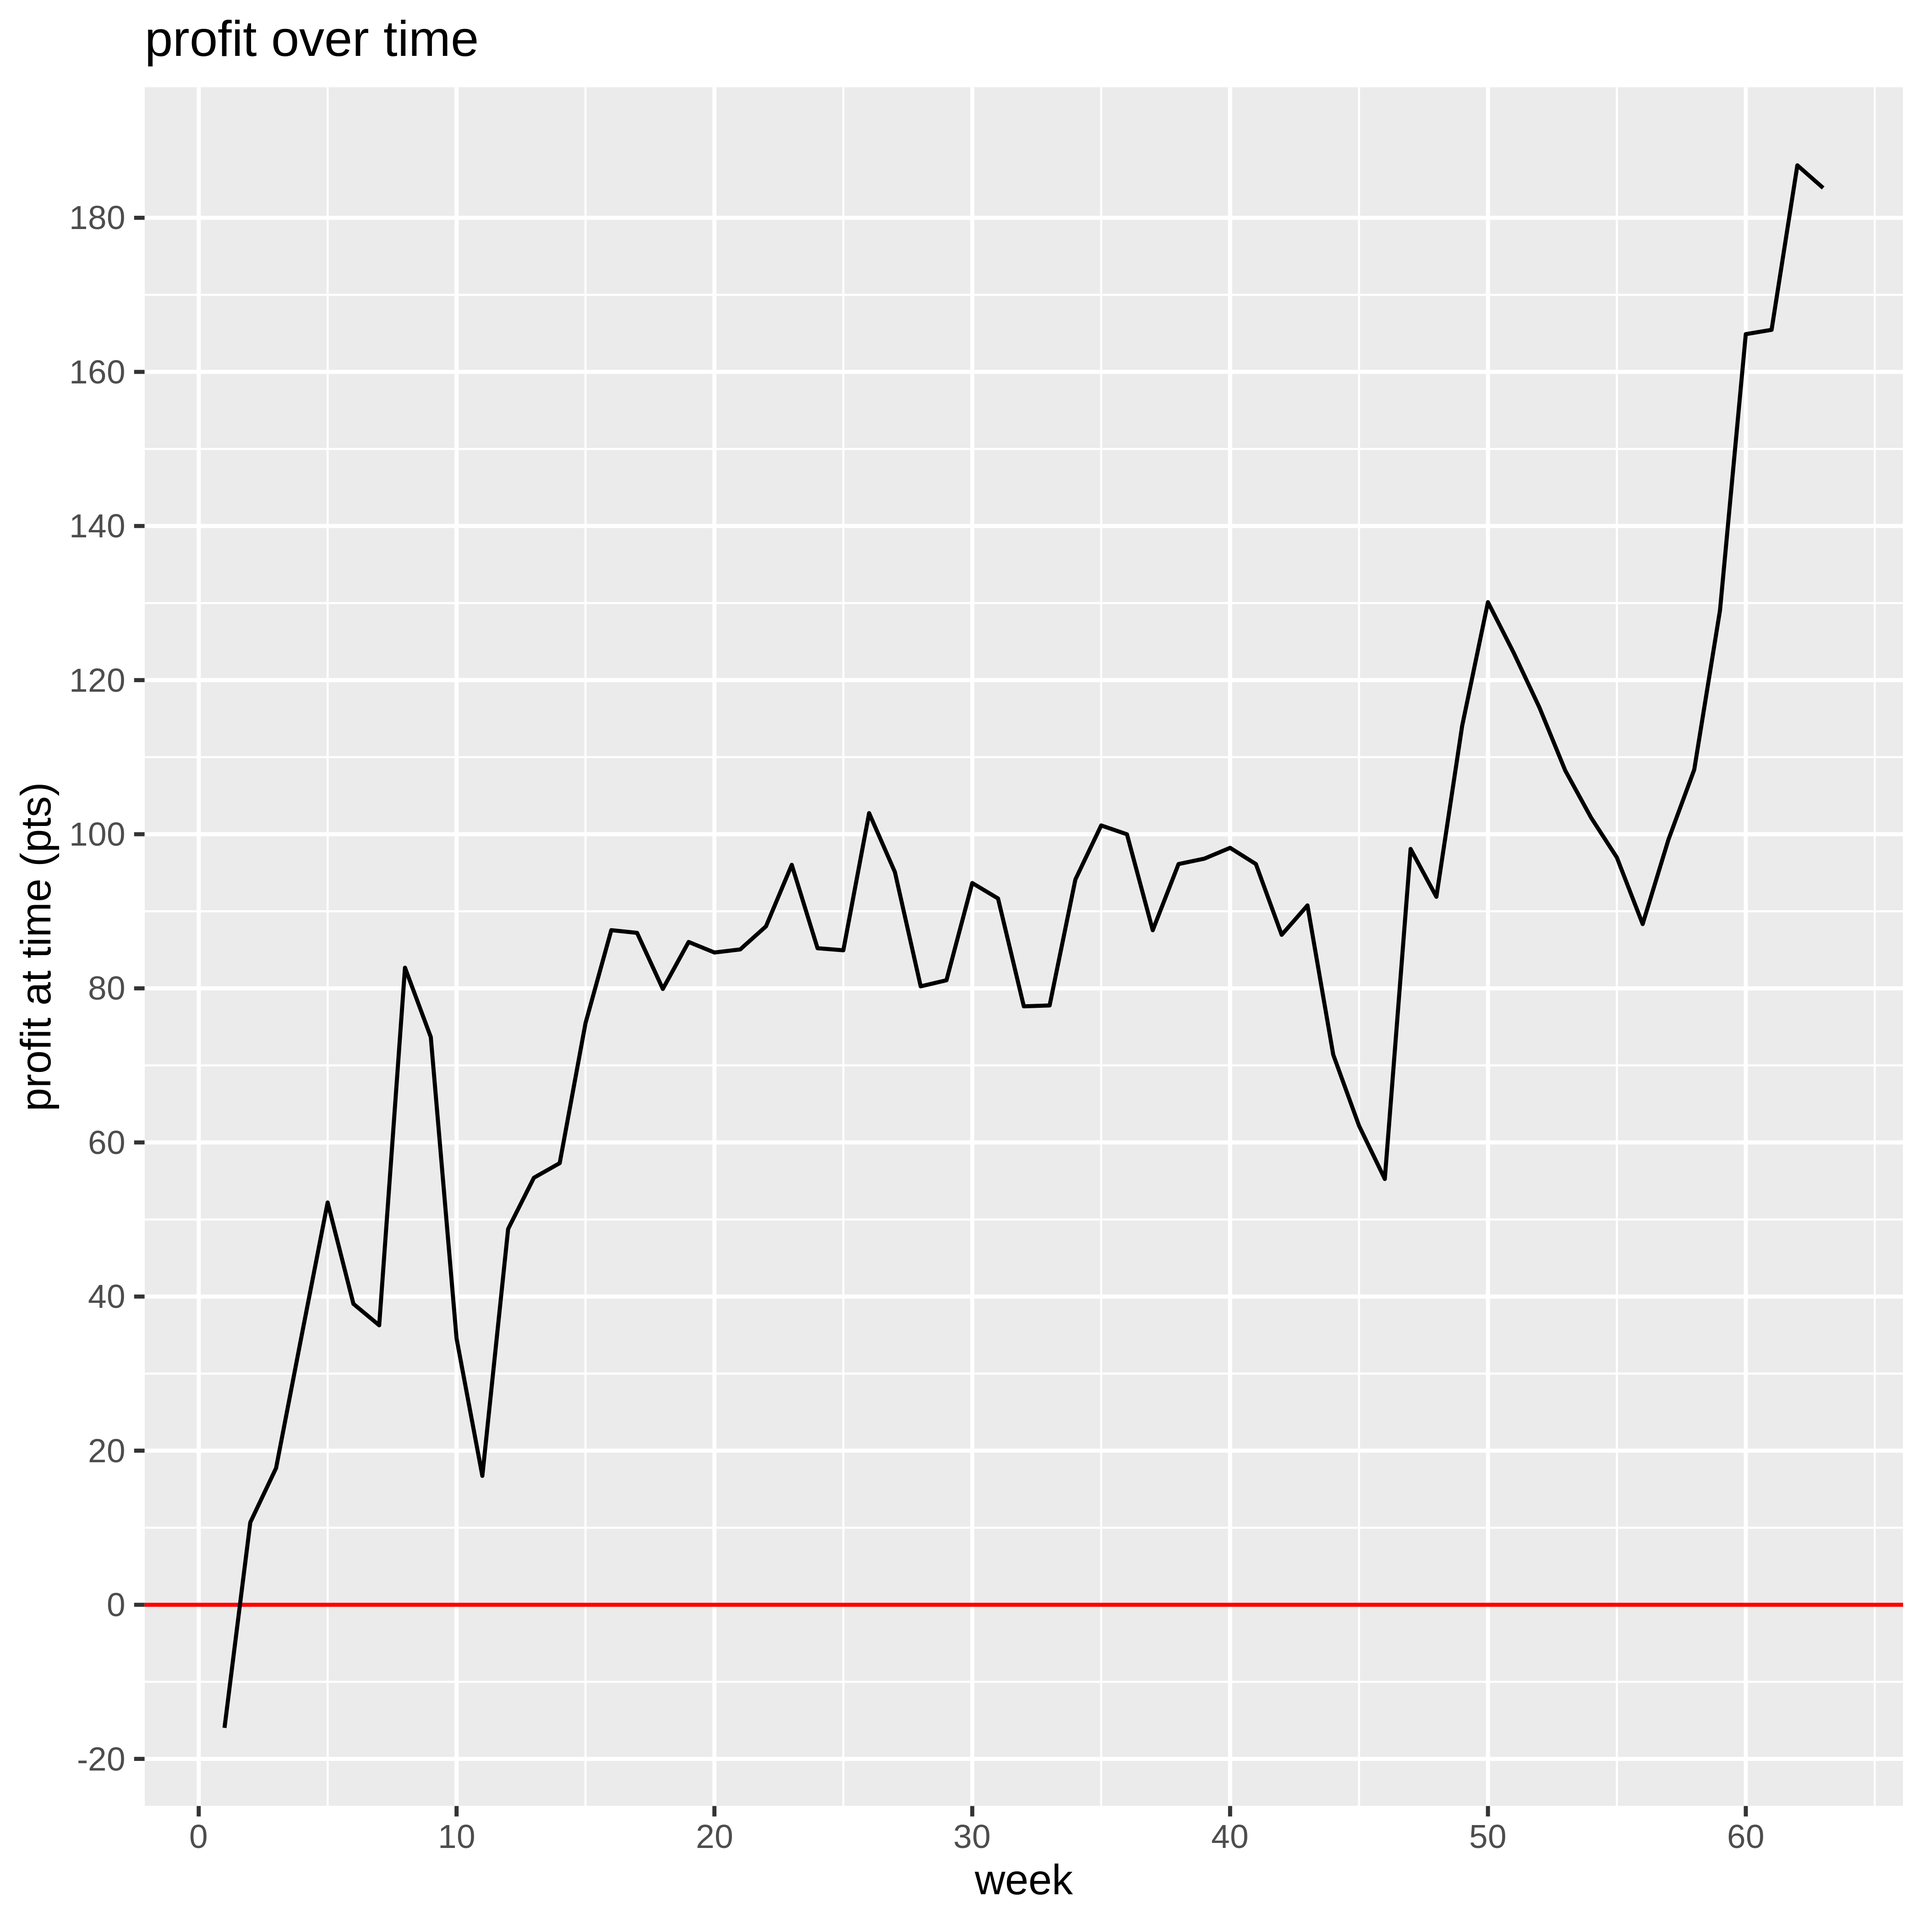
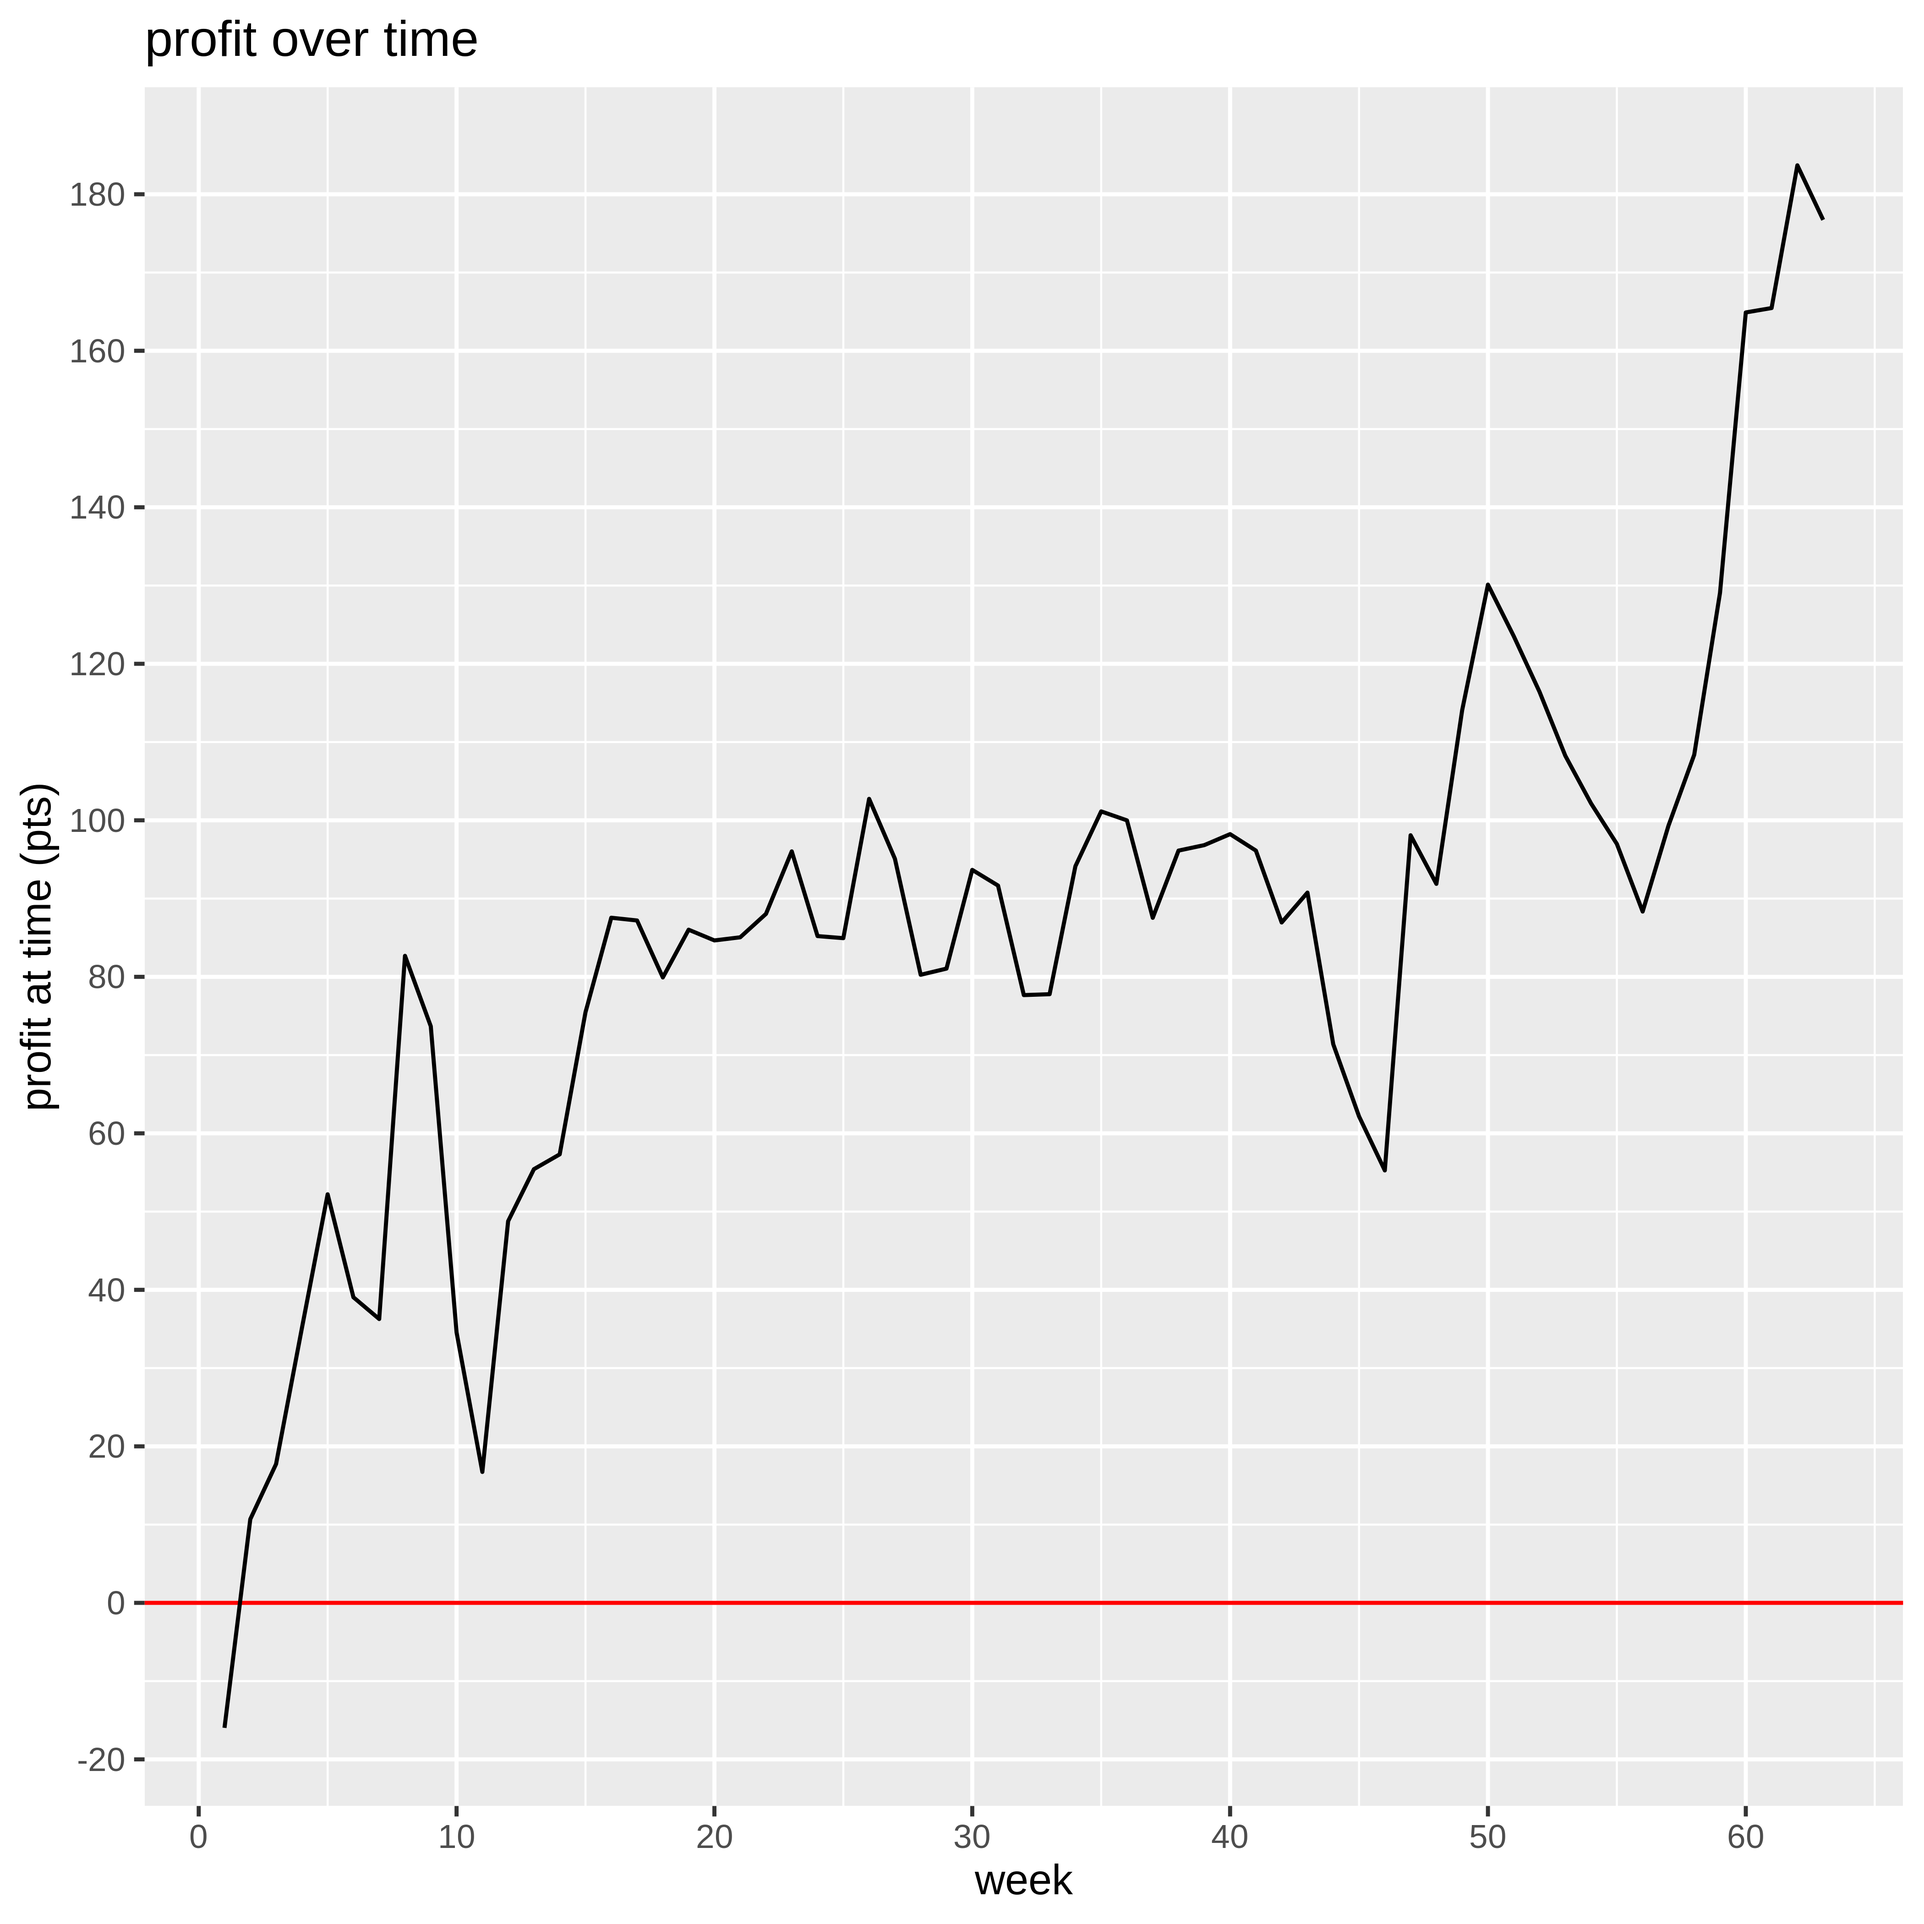
Daily auto build of report.md. Travis build: 1159.

diff --git a/report.md b/report.md
@@ -1,6 +1,6 @@
 ---
 title: "report"
-date: "2019-06-29 17:45:03"
+date: "2019-06-30 17:42:56"
 output: github_document
 ---
 
@@ -17,9 +17,9 @@ output: github_document
 
 
 
-We put in €9000 and we've made a profit of €9,056 on the bets. However, we've paid three subscriptions of £600 which amounts to €2,008 so our net profit is €7,048. That's a return on capital of 78.31%. This gives us a current bank of €16048.
+We put in €9000 and we've made a profit of €8,633 on the bets. However, we've paid three subscriptions of £600 which amounts to €2,010 so our net profit is €6,623. That's a return on capital of 73.59%. This gives us a current bank of €15623.
 
-We have wagered a total of €102,285 and made a betting profit of €9,056, which gives us a betting ROI of 8.85%.
+We have wagered a total of €102,745 and made a betting profit of €8,633, which gives us a betting ROI of 8.4%.
 
 
 # Have any bookies been riddled?
@@ -31,22 +31,22 @@ We have wagered a total of €102,285 and made a betting profit of €9,056, whi
 |Matchbook    |+55   |0     |+6   |+61   |
 |Betfred      |+20   |0     |+31  |+51   |
 |Paddy Power  |+44   |0     |+1   |+45   |
-|Bet365       |0     |0     |+36  |+36   |
+|Bet365       |0     |-2    |+36  |+36   |
 |SkyBet       |+12   |0     |-1   |+11   |
 |SportingBet  |0     |0     |+10  |+10   |
 |10Bet        |+14   |0     |-6   |+8    |
 |NA           |0     |0     |+7   |+7    |
 |SpreadEx     |+6    |0     |0    |+6    |
-|Coral        |+5    |0     |0    |+5    |
+|Coral        |+5    |-1    |0    |+5    |
 |Marathon     |0     |0     |+2   |+2    |
-|William Hill |+1    |0     |0    |+1    |
-|Betway       |0     |0     |0    |0     |
-|HC Matchbook |0     |0     |-1   |-1    |
+|Betway       |0     |-1    |0    |0     |
 |Betstars     |-1    |0     |0    |-1    |
 |Uniber       |0     |0     |-1   |-1    |
+|William Hill |-1    |0     |0    |-1    |
 |SunBets      |-4    |0     |+3   |-1    |
 |BetBright    |0     |0     |-1   |-1    |
 |Redzone      |0     |0     |-1   |-1    |
+|HC Matchbook |-1    |0     |-1   |-2    |
 |SportNation  |0     |0     |-2   |-2    |
 |BetVictor    |0     |0     |-3   |-3    |
 |Various      |-3    |0     |-1   |-4    |
@@ -66,7 +66,7 @@ We have wagered a total of €102,285 and made a betting profit of €9,056, whi
 
 
 
-We've had winnings of 1534 points and losses of 1351 points, so even if our odds were only a fraction 1351 / 1534 = 0.88 of what we actually got, we'd still be breaking even.
+We've had winnings of 1534 points and losses of 1358 points, so even if our odds were only a fraction 1358 / 1534 = 0.89 of what we actually got, we'd still be breaking even.
 
 
 # Winners and losers
@@ -76,7 +76,7 @@ Here's a count of the number of winners, losers, and places we've had.
 
 |result                  |    n|percent |
 |:-----------------------|----:|:-------|
-|Win only Lose           | 1010|70%     |
+|Win only Lose           | 1022|70%     |
 |Win only Win            |  206|14%     |
 |Each way Lose           |  108|7%      |
 |Win only Unmatched Loss |   48|3%      |
@@ -90,8 +90,8 @@ Here's a count of the number of winners, losers, and places we've had.
 
 
 
-* We've made 739 _win only_ bets, on which we've made a profit of €8,645. 
-* We've made 103 _each way_ bets, on which we've made a profit of €411.
+* We've made 744 _win only_ bets, on which we've made a profit of €8,222. 
+* We've made 103 _each way_ bets, on which we've made a profit of €410.
 
 
 # Unmatched Bets
@@ -100,4 +100,4 @@ Here's a count of the number of winners, losers, and places we've had.
 
 We'll consider only win only bets (and not each way bets) in this section.
 
-Of the bets that have been matched, there have been 138 winners and 590 losers. That means that 19% of matched bets have been winners. Of the bets that have not been matched, there have been 13 winners and 48 losers. That means that 21% of unmatched bets have been winners. Unmatched bets have saved us 48 points on losers but cost us 81 on winners, whereas getting better odds on posted bets which were matched has made us 60 points (where I have assumed that when we post, we get 20% better odds than if we'd just taken best available at the time). So overall, choosing to post when we do (rather than taking the bad bbest available odds) has saved us 27 points.
+Of the bets that have been matched, there have been 138 winners and 596 losers. That means that 19% of matched bets have been winners. Of the bets that have not been matched, there have been 13 winners and 48 losers. That means that 21% of unmatched bets have been winners. Unmatched bets have saved us 48 points on losers but cost us 81 on winners, whereas getting better odds on posted bets which were matched has made us 60 points (where I have assumed that when we post, we get 20% better odds than if we'd just taken best available at the time). So overall, choosing to post when we do (rather than taking the bad bbest available odds) has saved us 27 points.
